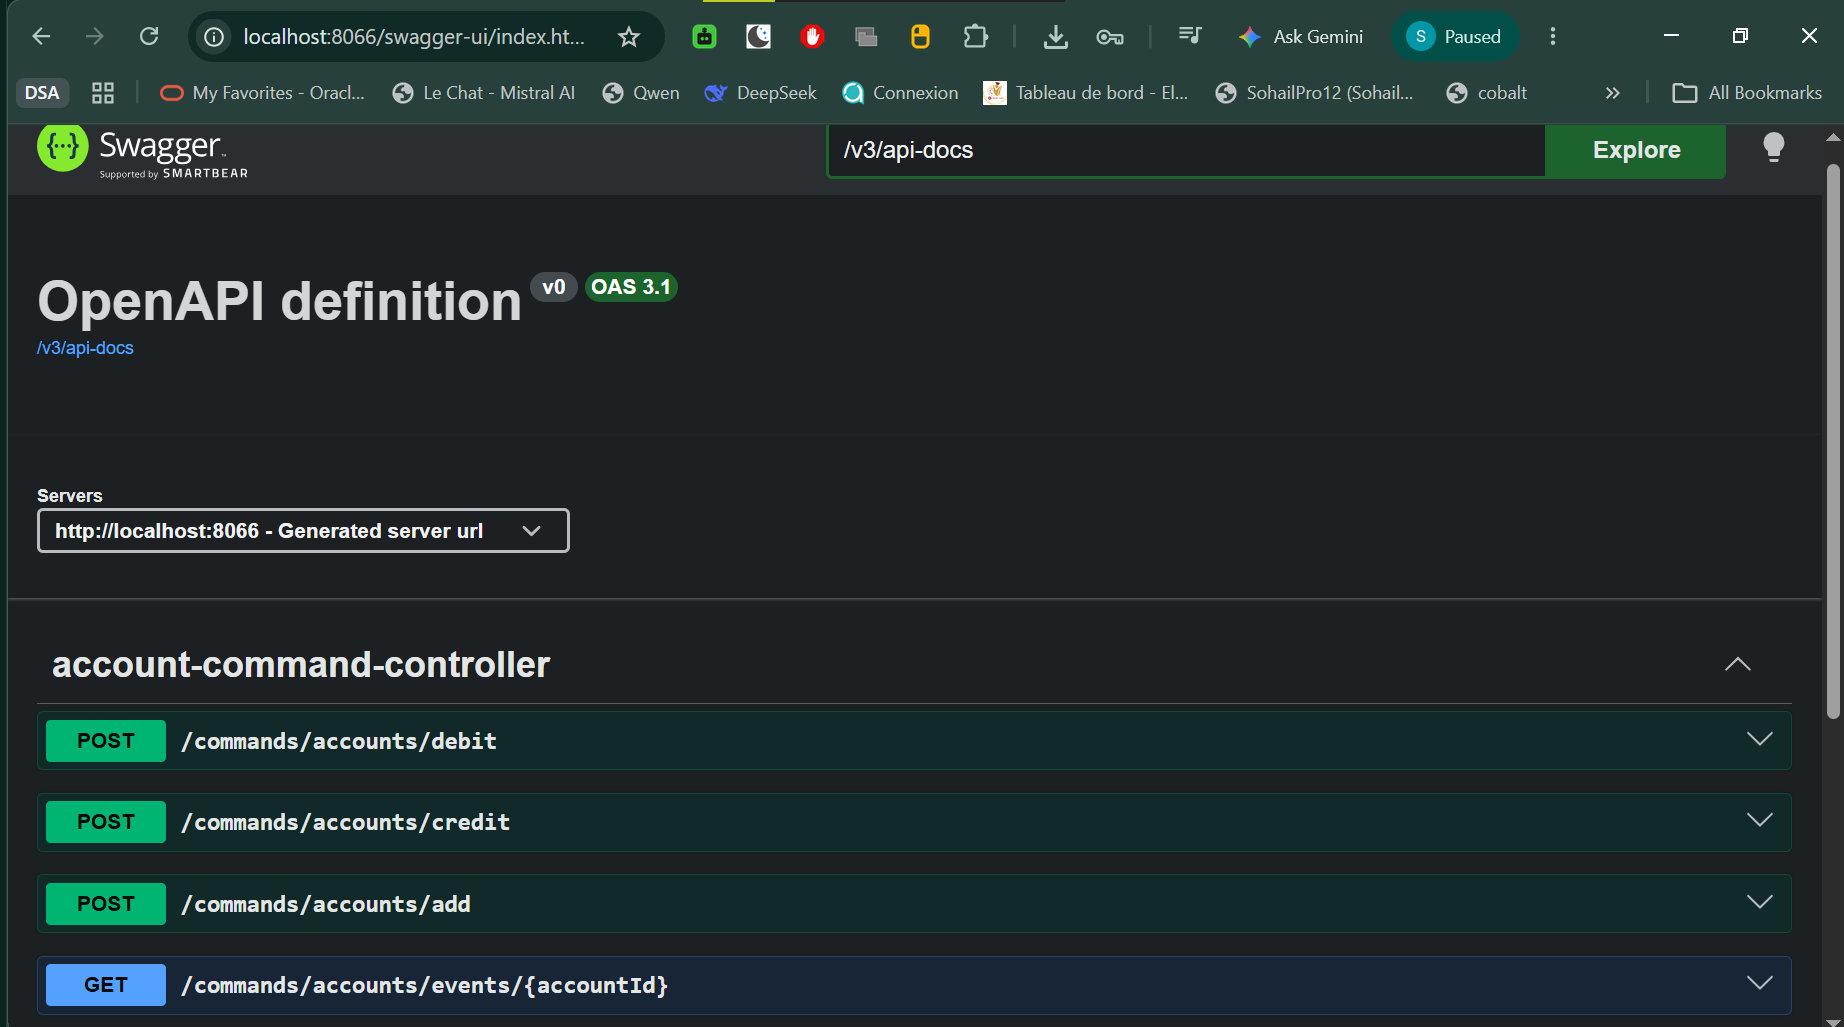
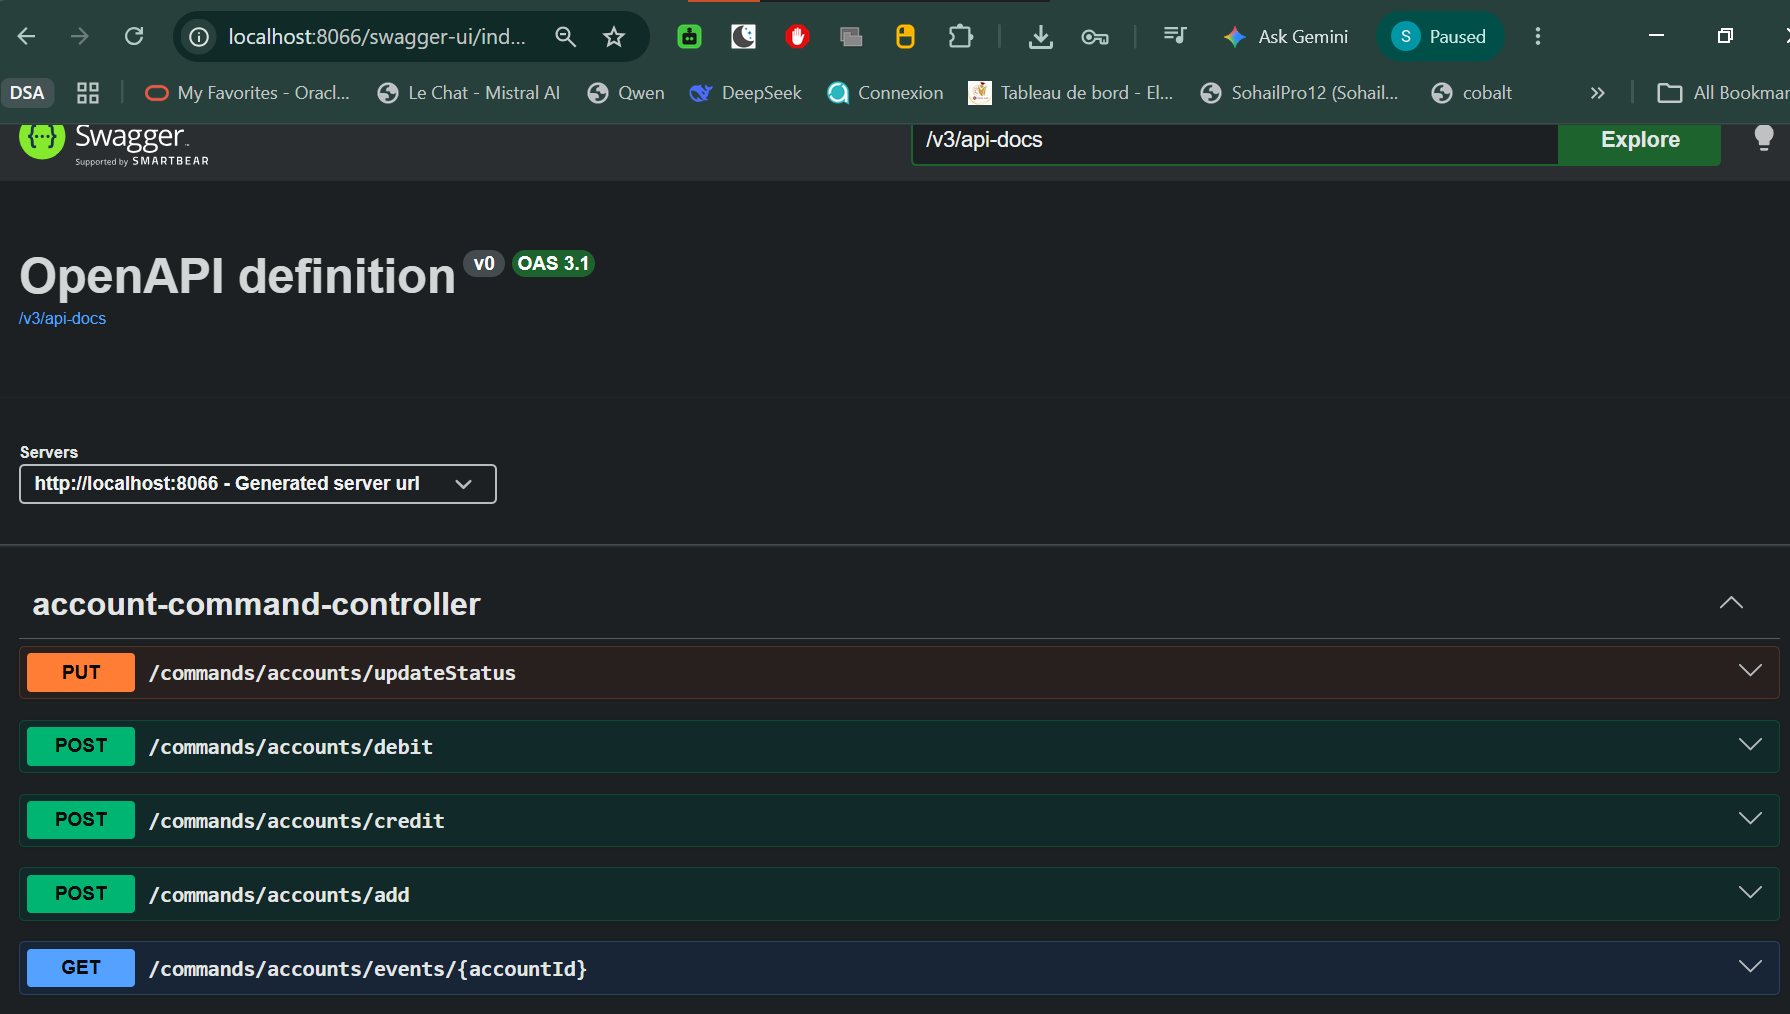
Partie Commande/ecriture finalise

diff --git a/Activite_Pratique_N4-CQRS_Event_Sourcing_AXON_springCloud/src/main/java/com/enset/activite_pratique_n4/commands/aggregates/AccountAggregate.java b/Activite_Pratique_N4-CQRS_Event_Sourcing_AXON_springCloud/src/main/java/com/enset/activite_pratique_n4/commands/aggregates/AccountAggregate.java
@@ -3,10 +3,8 @@ package com.enset.activite_pratique_n4.commands.aggregates;
 import com.enset.activite_pratique_n4.commands.commands.CreateAccountCommand;
 import com.enset.activite_pratique_n4.commands.commands.CreditAccountCommand;
 import com.enset.activite_pratique_n4.commands.commands.DebitAccountCommand;
-import com.enset.activite_pratique_n4.commands.events.AccountActivatedEvent;
-import com.enset.activite_pratique_n4.commands.events.AccountCreatedEvent;
-import com.enset.activite_pratique_n4.commands.events.AccountCreditedEvent;
-import com.enset.activite_pratique_n4.commands.events.AccountDebitedEvent;
+import com.enset.activite_pratique_n4.commands.commands.UpdateAccountStatusCommand;
+import com.enset.activite_pratique_n4.commands.events.*;
 import com.enset.activite_pratique_n4.common.AccountStatus;
 import lombok.extern.slf4j.Slf4j;
 import org.axonframework.commandhandling.CommandHandler;
@@ -110,5 +108,22 @@ public class AccountAggregate {
         log.info("################# AccountDebitedEvent occurred ############");
         this.accountId = event.getAccountId();
         this.balance -= event.getAmount();
+    }
+
+    @CommandHandler
+    public void handle(UpdateAccountStatusCommand command) {
+        if (this.status == command.getStatus()) {
+            throw new RuntimeException("Account is already in " + command.getStatus() + " status");
+        }
+
+        AggregateLifecycle.apply(new AccountStatusUpdatedEvent(
+                command.getId(),
+                command.getStatus()
+        ));
+    }
+
+    @EventSourcingHandler
+    public void on(AccountStatusUpdatedEvent event) {
+        this.status = event.getStatus();
     }
 }

diff --git a/Activite_Pratique_N4-CQRS_Event_Sourcing_AXON_springCloud/src/main/java/com/enset/activite_pratique_n4/commands/controllers/AccountCommandController.java b/Activite_Pratique_N4-CQRS_Event_Sourcing_AXON_springCloud/src/main/java/com/enset/activite_pratique_n4/commands/controllers/AccountCommandController.java
@@ -3,9 +3,11 @@ package com.enset.activite_pratique_n4.commands.controllers;
 import com.enset.activite_pratique_n4.commands.commands.CreateAccountCommand;
 import com.enset.activite_pratique_n4.commands.commands.CreditAccountCommand;
 import com.enset.activite_pratique_n4.commands.commands.DebitAccountCommand;
+import com.enset.activite_pratique_n4.commands.commands.UpdateAccountStatusCommand;
 import com.enset.activite_pratique_n4.commands.dto.AddNewAccountRequestDTO;
 import com.enset.activite_pratique_n4.commands.dto.CreditAccountDTO;
 import com.enset.activite_pratique_n4.commands.dto.DebitAccountDTO;
+import com.enset.activite_pratique_n4.commands.dto.UpdateAccountStatusRequestDTO;
 import org.axonframework.commandhandling.gateway.CommandGateway;
 import org.axonframework.eventsourcing.eventstore.EventStore;
 import org.springframework.beans.factory.annotation.Autowired;
@@ -52,6 +54,14 @@ public class AccountCommandController {
                 request.currency()
         ));
         return result;
+    }
+
+    @PutMapping(path = "/updateStatus")
+    public CompletableFuture<String> updateStatus(@RequestBody UpdateAccountStatusRequestDTO request) {
+        return commandGateway.send(new UpdateAccountStatusCommand(
+                request.accountId(),
+                request.status()
+        ));
     }
 
     @ExceptionHandler(Exception.class)

diff --git a/Activite_Pratique_N4-CQRS_Event_Sourcing_AXON_springCloud/src/main/java/com/enset/activite_pratique_n4/commands/commands/UpdateAccountStatusCommand.java b/Activite_Pratique_N4-CQRS_Event_Sourcing_AXON_springCloud/src/main/java/com/enset/activite_pratique_n4/commands/commands/UpdateAccountStatusCommand.java
@@ -1,0 +1,13 @@
+package com.enset.activite_pratique_n4.commands.commands;
+
+import com.enset.activite_pratique_n4.common.AccountStatus;
+import lombok.AllArgsConstructor;
+import lombok.Getter;
+import org.axonframework.modelling.command.TargetAggregateIdentifier;
+
+@Getter @AllArgsConstructor
+public class UpdateAccountStatusCommand {
+    @TargetAggregateIdentifier
+    private String id;
+    private AccountStatus status;
+}

diff --git a/Activite_Pratique_N4-CQRS_Event_Sourcing_AXON_springCloud/src/main/java/com/enset/activite_pratique_n4/commands/events/AccountStatusUpdatedEvent.java b/Activite_Pratique_N4-CQRS_Event_Sourcing_AXON_springCloud/src/main/java/com/enset/activite_pratique_n4/commands/events/AccountStatusUpdatedEvent.java
@@ -1,0 +1,13 @@
+package com.enset.activite_pratique_n4.commands.events;
+
+import com.enset.activite_pratique_n4.common.AccountStatus;
+import lombok.AllArgsConstructor;
+import lombok.Getter;
+import lombok.NoArgsConstructor;
+
+@Getter @NoArgsConstructor
+@AllArgsConstructor
+public class AccountStatusUpdatedEvent {
+    private String id;
+    private AccountStatus status;
+}

diff --git a/Activite_Pratique_N4-CQRS_Event_Sourcing_AXON_springCloud/src/main/java/com/enset/activite_pratique_n4/commands/dto/UpdateAccountStatusRequestDTO.java b/Activite_Pratique_N4-CQRS_Event_Sourcing_AXON_springCloud/src/main/java/com/enset/activite_pratique_n4/commands/dto/UpdateAccountStatusRequestDTO.java
@@ -1,0 +1,5 @@
+package com.enset.activite_pratique_n4.commands.dto;
+
+import com.enset.activite_pratique_n4.common.AccountStatus;
+
+public record UpdateAccountStatusRequestDTO(String accountId, AccountStatus status) {}
